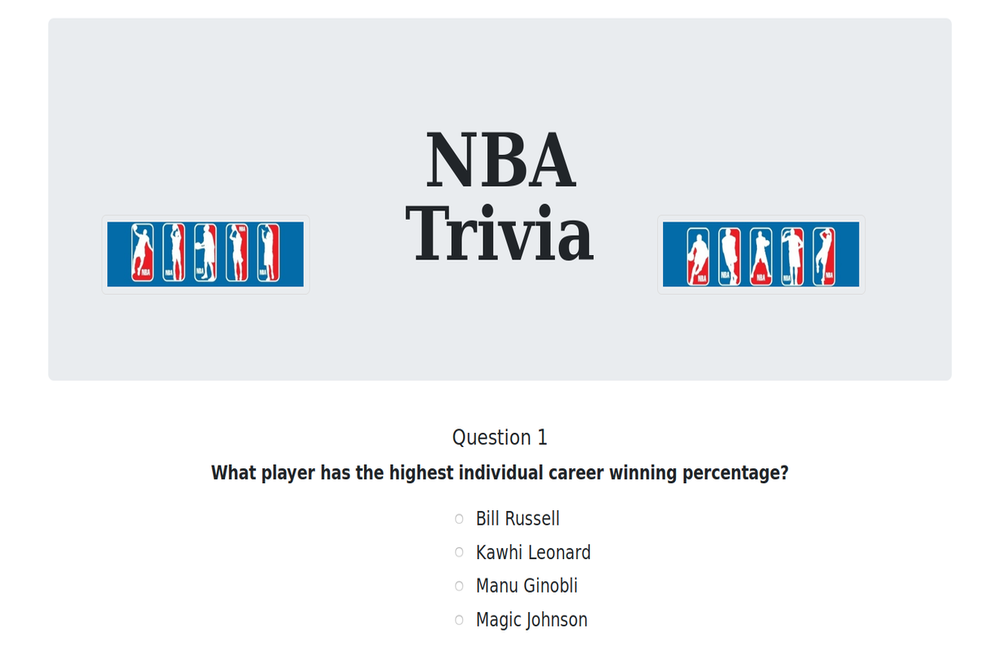
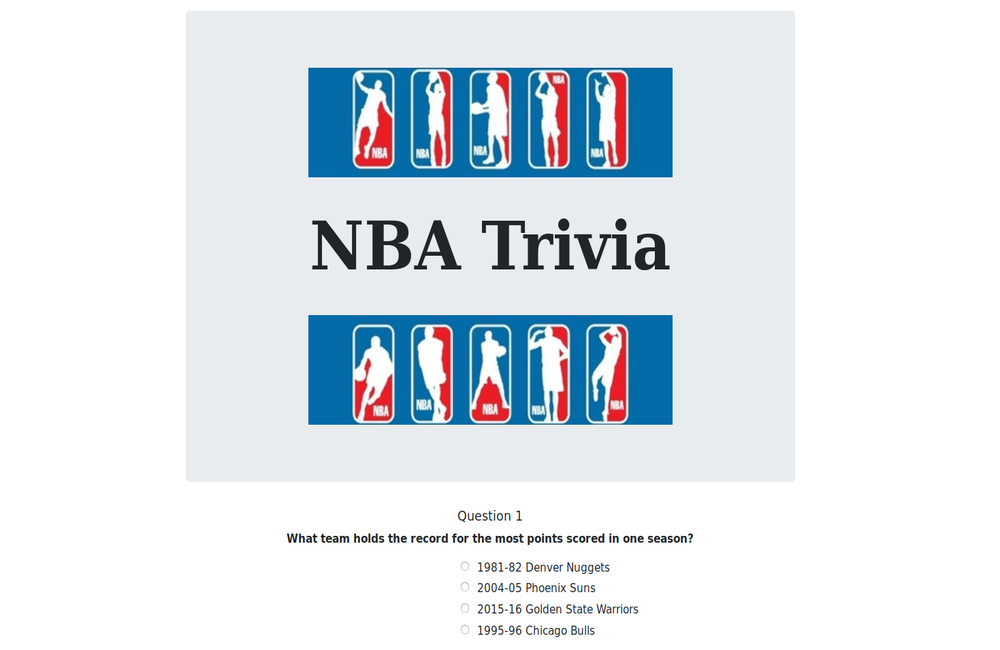
fix header for nba-trivia on zoom

Changed region(s): [[0.093, 0.0923, 0.868, 0.7385], [0.279, 0.7692, 0.682, 0.9846]]

diff --git a/src/components/nba-trivia/nbaTrivia.css b/src/components/nba-trivia/nbaTrivia.css
@@ -16,13 +16,6 @@
   margin-bottom: 10px;
 }
 
-.column {
-  display: inline-block;
-  /* float: center; */
-  width: 33.33%;
-  position: relative;
-}
-
 .results-container {
   background-color: none;
 }
@@ -55,21 +48,35 @@
   clear: both;
 }
 
-/* preserve aspect ratio of images */
-#theImage {
-  width: 75%;
-  height: auto;
+.title-column {
+  display: inline-block;
+  /* float: center; */
+  /* position: relative; */
 }
+
+/* preserve aspect ratio of images */
+#nbaLogos {
+  width: 500px;
+  min-width: 450px;
+  max-width: 600px;
+  /* height: 10vh; */
+}
+
+/* .title-block {
+  display: inline-block;
+} */
 
 /* using vh's here to avoid distortion from zooming */
 #header {
-  padding-top: 14px;
-  height: 10vh;
-  line-height: 10vh;
-  font-size: 10vh;
+  /* height: 10vh; */
+  /* line-height: 10vh; */
+  /* font-size: 10vh; */
+  font-size: 80px;
   text-align: center;
   font-family: "lucida Sans Unicode", "Lucida Grande", "Lucida Sans";
   font-weight: 600;
+  margin-bottom: 30px;
+  margin-top: 30px;
 }
 
 .quizResults {

diff --git a/src/components/nba-trivia/App.js b/src/components/nba-trivia/App.js
@@ -80,14 +80,14 @@ class App extends Component {
     return (
       <div className="App">
         <div className="jumbotron">
-          <div className="column img-wrapper">
-            <img id="theImage" alt="nba-logos" src={left_logo} />
+          <div className="title-column">
+            <img id="nbaLogos" alt="nba-logos" src={left_logo} />
           </div>
-          <div className="column">
+          <div className="title-column">
             <p id="header">NBA Trivia</p>
           </div>
-          <div className="column img-wrapper">
-            <img id="theImage" alt="nba-logos" src={right_logo} />
+          <div className="title-column">
+            <img id="nbaLogos" alt="nba-logos" src={right_logo} />
           </div>
         </div>
 
